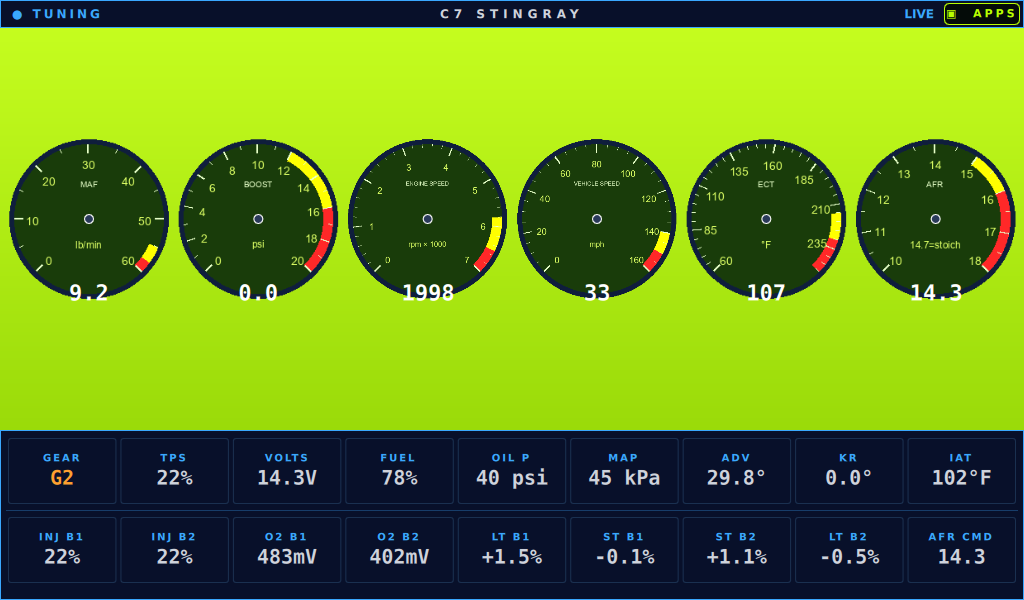
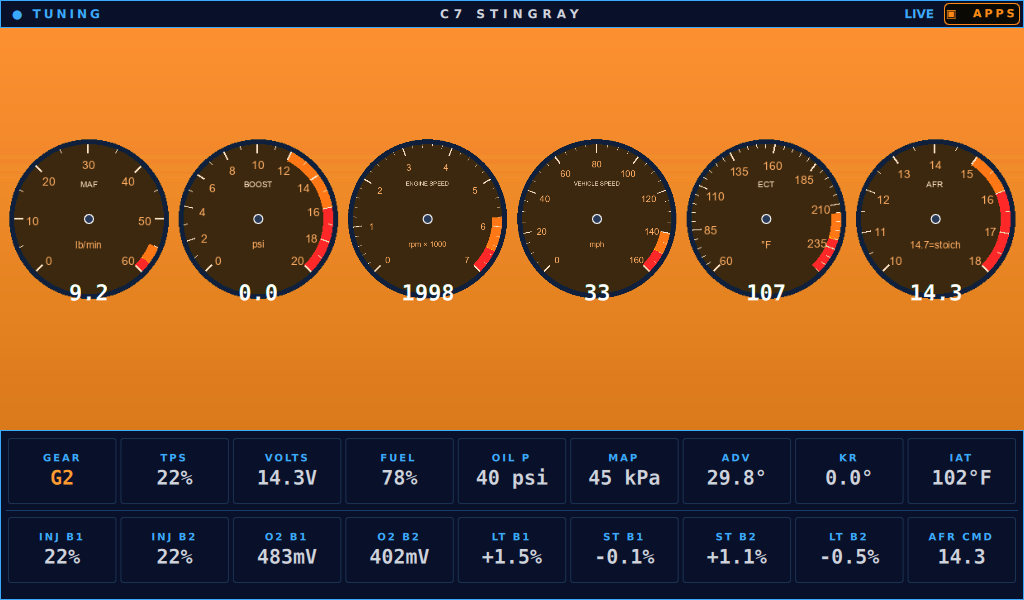
Re-theme C7 dash screenshots green -> honey-amber to match the site
Selective HSV hue remap (recolor_dash.py): only the green band rotates to
amber; reds/yellows/white text/navy bars preserved so gauges still read.
Cache-bust the image URLs (?v=2) so browsers fetch the amber versions.

diff --git a/c7-dashboard.html b/c7-dashboard.html
@@ -73,7 +73,7 @@
 <section class="section-tight">
   <div class="container">
     <figure class="shot shot-hero">
-      <img src="assets/images/c7-tuning-dash.png" alt="C7 Dashboard running live — six tuning gauges and 24 live data cells on the in-car touchscreen" loading="lazy">
+      <img src="assets/images/c7-tuning-dash.png?v=2" alt="C7 Dashboard running live — six tuning gauges and 24 live data cells on the in-car touchscreen" loading="lazy">
       <figcaption><strong>Running on the car.</strong> The tuning dashboard live on a 2014 Stingray — six analog gauges plus 24 live data cells, read straight off the OEM CAN bus.</figcaption>
     </figure>
   </div>
@@ -89,7 +89,7 @@
         <p>Big analog dials with proper redline arcs — MAF, boost, RPM, speed, ECT, AFR — plus 24 status cells for fuel trims, injector duty, knock retard, timing advance, and oil pressure. Swap layouts on the fly; multiple themes built in. <strong>Design your own cluster in the <a href="builder.html">Gauge Builder</a> and it ships pixel-identical to your dash.</strong></p>
         <ul class="checklist"><li>Analog dials + 24-cell tuning readout</li><li>Trim-aware: boost gauge appears on Z06/ZR1</li><li>Passive OEM CAN read — no reflash</li></ul>
       </div>
-      <div class="feature-media"><img src="assets/images/c7-tuning-dash.png" alt="C7 tuning gauges — MAF, boost, RPM, speed, ECT, AFR"></div>
+      <div class="feature-media"><img src="assets/images/c7-tuning-dash.png?v=2" alt="C7 tuning gauges — MAF, boost, RPM, speed, ECT, AFR"></div>
     </div>
 
     <div class="feature-row flip">
@@ -107,7 +107,7 @@
         <p>A software-managed RPM-window switch with <strong>seven independent interlocks</strong>: physical arm switch, software arm, gear ≠ P/N, RPM in window, TPS at WOT, coolant warmed, bottle temp safe. Programmable purge bursts and a bottle-heater thermostat with hard cutoff. Every relay is fail-safe default-OFF.</p>
         <ul class="checklist"><li>7-gate interlock stack</li><li>Programmable purge + bottle heater</li><li>Fail-safe default-OFF on every relay</li></ul>
       </div>
-      <div class="feature-media"><img src="assets/images/c7-nitrous-dash.png" alt="C7 nitrous control screen with seven independent safety interlocks"></div>
+      <div class="feature-media"><img src="assets/images/c7-nitrous-dash.png?v=2" alt="C7 nitrous control screen with seven independent safety interlocks"></div>
     </div>
   </div>
 </section>

diff --git a/index.html b/index.html
@@ -90,7 +90,7 @@
         </div>
       </div>
       <div class="hero-art">
-        <div class="hero-shot"><img src="assets/images/c7-tuning-dash.png" alt="The Honeybadger C7 dashboard running live — six tuning gauges and 24 live data cells"></div>
+        <div class="hero-shot"><img src="assets/images/c7-tuning-dash.png?v=2" alt="The Honeybadger C7 dashboard running live — six tuning gauges and 24 live data cells"></div>
       </div>
     </div>
   </div>
@@ -121,7 +121,7 @@
         <a href="j1-bridge.html" class="sc-link">Learn about J1 Bridge →</a>
       </div>
       <div class="showcase-card">
-        <div class="sc-media"><img src="assets/images/c7-tuning-dash.png" alt="C7 tuning dashboard with six live gauges"></div>
+        <div class="sc-media"><img src="assets/images/c7-tuning-dash.png?v=2" alt="C7 tuning dashboard with six live gauges"></div>
         <span class="sc-badge kit">COMMERCIAL KIT · PRE-LAUNCH</span>
         <h3>C7 Dashboard</h3>
         <p>The aftermarket touchscreen head unit GM never gave the C7 Corvette. Live tuning gauges, a 250-app multimedia center, and a safety-interlocked nitrous controller — reading the OEM CAN bus passively, no reflash.</p>
